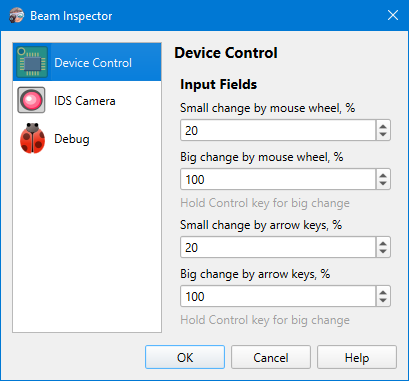
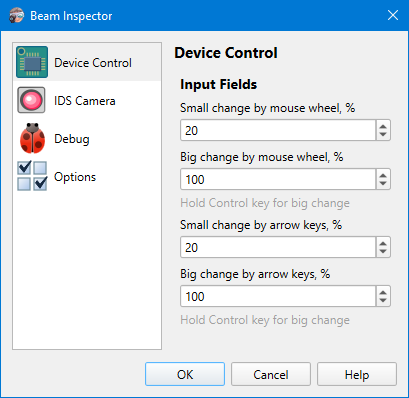
auto check for updates

diff --git a/src/app/HelpSystem.cpp b/src/app/HelpSystem.cpp
@@ -1,14 +1,29 @@
 #include "HelpSystem.h"
 
+#include "app/AppSettings.h"
 
+#include "core/OriVersion.h"
+#include "helpers/OriDialogs.h"
 #include "helpers/OriLayouts.h"
 #include "tools/OriHelpWindow.h"
+#include "tools/OriSettings.h"
 #include "widgets/OriLabels.h"
 
 #include <QApplication>
 #include <QDesktopServices>
+#include <QDateTime>
 #include <QDialog>
+#include <QFormLayout>
+#include <QJsonArray>
+#include <QJsonDocument>
+#include <QJsonObject>
 #include <QLabel>
+#include <QNetworkAccessManager>
+#include <QPushButton>
+#include <QRestAccessManager>
+#include <QRestReply>
+#include <QTextBrowser>
+#include <QTimer>
 #include <QUrl>
 
 using namespace Ori::Layouts;
@@ -57,6 +72,166 @@ void HelpSystem::visitHomePage()
 void HelpSystem::sendBugReport()
 {
     QDesktopServices::openUrl(QUrl(newIssueUrl()));
+}
+
+// https://docs.github.com/ru/rest/releases/releases?apiVersion=2022-11-28
+void HelpSystem::checkForUpdates()
+{
+    getReleases(false);
+}
+
+void HelpSystem::checkForUpdatesAuto()
+{
+    Ori::Settings s;
+    s.beginGroup("Update");
+    auto interval = UpdateCheckInterval(s.value("checkInterval", int(UpdateCheckInterval::Weekly)).toInt());
+    if (interval == UpdateCheckInterval::None)
+        return;
+    bool elapsed = false;
+    auto lastTime = QDateTime::fromString(s.value("lastCheckTime").toString(), Qt::ISODate);
+    if (!lastTime.isValid())
+        elapsed = true;
+    else {
+        auto now = QDateTime::currentDateTime().date();
+        auto prev = lastTime.date();
+        switch (interval) {
+        case UpdateCheckInterval::None:
+            break;
+        case UpdateCheckInterval::Daily:
+            elapsed = now.dayOfYear() != prev.dayOfYear() || now.year() != prev.year();
+            break;
+        case UpdateCheckInterval::Weekly:
+            elapsed = now.weekNumber() != prev.weekNumber() || now.year() != prev.year();
+            break;
+        case UpdateCheckInterval::Monthly:
+            elapsed = now.month() != prev.month() || now.year() != prev.year();
+            break;
+        }
+    }
+    if (elapsed) {
+        auto checkDelay = s.value("checkDelayMs", 300).toInt();
+        if (checkDelay <= 0)
+            checkDelay = 300;
+        QTimer::singleShot(checkDelay, this, [this]{ getReleases(true); });
+    }
+}
+
+namespace {
+struct Release {
+    Ori::Version ver;
+    QDate date;
+    QString descr;
+};
+}
+
+void HelpSystem::getReleases(bool silent)
+{
+    if (_updateChecker)
+    {
+        qDebug() << "Check is already in progress";
+        return;
+    }
+    if (!_updateChecker) {
+        _updateChecker = new QNetworkAccessManager(this);
+        _updateCheckerRest = new QRestAccessManager(_updateChecker, this);
+    }
+    QNetworkRequest request;
+    request.setRawHeader("Accept", "application/vnd.github+json");
+    request.setRawHeader("X-GitHub-Api-Version", "2022-11-28");
+    request.setHeader(QNetworkRequest::UserAgentHeader, "otion-project/beam-inspector-app");
+    request.setUrl(QUrl("https://api.github.com/repos/orion-project/beam-inspector/releases"));
+    _updateCheckerRest->get(request, this, [this, silent](QRestReply &reply){
+        if (!reply.isSuccess()) {
+            if (silent)
+                qWarning() << "HelpSystem::getReleases" << reply.errorString();
+            else
+                Ori::Dlg::error(reply.errorString());
+            finishUpdateCheck();
+            return;
+        }
+        QJsonParseError err;
+        auto doc = reply.readJson(&err);
+        if (!doc) {
+            if (silent)
+                qWarning() << "HelpSystem::getReleases" << err.errorString();
+            else
+                Ori::Dlg::error(err.errorString());
+            finishUpdateCheck();
+            return;
+        }
+        if (!doc->isArray()) {
+            if (silent)
+                qWarning() << "HelpSystem::getReleases" << "Unexpected data format, json array expected";
+            else
+                Ori::Dlg::error(tr("Server returned data in an unexpected format"));
+            finishUpdateCheck();
+            return;
+        }
+        auto arr = doc->array();
+        QList<Release> releases;
+        Ori::Version currentVersion(APP_VER_MAJOR, APP_VER_MINOR, APP_VER_PATCH);
+        for (auto it = arr.constBegin(); it != arr.constEnd(); it++) {
+            auto obj = it->toObject();
+            Ori::Version version(obj["name"].toString());
+            if (version > currentVersion)
+                releases << Release {
+                    .ver = version,
+                    .date = QDate::fromString(obj["published_at"].toString(), Qt::ISODate),
+                    .descr = obj["body"].toString(),
+                };
+        }
+        if (releases.empty()) {
+            Ori::Dlg::info(tr("You are using the most recent version"));
+            finishUpdateCheck();
+            return;
+        }
+        std::sort(releases.begin(), releases.end(), [](Release& a, Release& b){ return a.ver > b.ver; });
+
+        auto label = new QLabel(tr("A new version is available"));
+        label->setAlignment(Qt::AlignHCenter);
+
+        auto layout = new QFormLayout;
+        layout->addRow(tr("Current version:"), new QLabel("<b>" + currentVersion.str(3) + "</b>"));
+        layout->addRow(tr("New version:"), new QLabel("<b>" + releases.first().ver.str(3) + "</b>"));
+
+        QString report;
+        QTextStream stream(&report);
+        for (auto r = releases.constBegin(); r != releases.constEnd(); r++)
+            stream << "**" << r->ver.str(3) << "** (" << QLocale::system().toString(r->date, QLocale::ShortFormat) << ")\n\n" << r->descr << "\n\n";
+
+        auto button = new QPushButton("      " + tr("Open download page") + "      ");
+        connect(button, &QPushButton::clicked, this, []{
+            QDesktopServices::openUrl(QUrl("https://github.com/orion-project/beam-inspector/releases"));
+        });
+
+        auto browser = new QTextBrowser;
+        browser->setMarkdown(report);
+        auto w = new QDialog;
+        w->setAttribute(Qt::WA_DeleteOnClose);
+        LayoutV({
+            label,
+            layout,
+            new QLabel(tr("Changelog:")),
+            browser,
+            LayoutH({Stretch(), button, Stretch()}),
+        }).useFor(w);
+        w->resize(450, 400);
+        w->exec();
+
+        finishUpdateCheck();
+    });
+}
+
+void HelpSystem::finishUpdateCheck()
+{
+    Ori::Settings s;
+    s.beginGroup("Update");
+    s.setValue("lastCheckTime", QDateTime::currentDateTime().toString(Qt::ISODate));
+
+    _updateCheckerRest->deleteLater();
+    _updateChecker->deleteLater();
+    _updateCheckerRest = nullptr;
+    _updateChecker = nullptr;
 }
 
 void HelpSystem::showAbout()

diff --git a/src/app/AppSettings.cpp b/src/app/AppSettings.cpp
@@ -71,6 +71,9 @@ void AppSettings::load()
 
     s.beginGroup("Plot");
     LOAD(colorMap, String, "CET-L08");
+
+    s.beginGroup("Update");
+    updateCheckInterval = UpdateCheckInterval(s.value("checkInterval", int(UpdateCheckInterval::Weekly)).toInt());
 }
 
 void AppSettings::save()
@@ -92,6 +95,9 @@ void AppSettings::save()
 
     s.beginGroup(GROUP_PLOT);
     SAVE(colorMap);
+
+    s.beginGroup("Update");
+    s.setValue("checkInterval", int(updateCheckInterval));
 }
 
 bool AppSettings::edit()
@@ -107,6 +113,8 @@ bool AppSettings::edit()
             .withHelpTopic("app_settings_ids"),
     #endif
         ConfigPage(cfgDbg, tr("Debug"), ":/toolbar/bug"),
+        ConfigPage(cfgOpts, tr("Options"), ":/toolbar/options")
+            .withHelpTopic("app_settings_opts"),
     };
     opts.onHelpRequested = [](const QString &topic){ HelpSystem::topic(topic); };
     opts.items = {
@@ -126,6 +134,11 @@ bool AppSettings::edit()
         new ConfigItemDir(cfgIds, tr("Peak comfortC directory (x64)"), &idsSdkDir),
     #endif
         new ConfigItemBool(cfgDbg, tr("Show log window (restart required)"), &useConsole),
+        (new ConfigItemDropDown(cfgOpts, tr("Automatically check for updates"), (int*)&updateCheckInterval))
+            ->withOption(int(UpdateCheckInterval::None), tr("None"))
+            ->withOption(int(UpdateCheckInterval::Daily), tr("Daily"))
+            ->withOption(int(UpdateCheckInterval::Weekly), tr("Weekly"))
+            ->withOption(int(UpdateCheckInterval::Monthly), tr("Monthly")),
     };
     if (ConfigDlg::edit(opts))
     {

diff --git a/src/windows/PlotWindow.cpp b/src/windows/PlotWindow.cpp
@@ -172,6 +172,8 @@ PlotWindow::PlotWindow(QWidget *parent) : QMainWindow(parent)
 
         if (!AppSettings::instance().isDevMode)
             openImage({});
+
+        HelpSystem::instance()->checkForUpdatesAuto();
     });
 }
 
@@ -314,6 +316,7 @@ void PlotWindow::createMenuBar()
     m->addAction(QIcon(":/ori_images/help"), tr("Help"), QKeySequence::HelpContents, help, &HelpSystem::showContent);
     m->addAction(QIcon(":/toolbar/home"), tr("Visit Homepage"), help, &HelpSystem::visitHomePage);
     m->addAction(QIcon(":/toolbar/bug"), tr("Send Bug Report"), help, &HelpSystem::sendBugReport);
+    m->addAction(tr("Check For Updates"), help, &HelpSystem::checkForUpdates);
     m->addSeparator();
     m->addAction(tr("About..."), help, &HelpSystem::showAbout);
 #undef M_

diff --git a/src/app/HelpSystem.h b/src/app/HelpSystem.h
@@ -5,7 +5,7 @@
 
 QT_BEGIN_NAMESPACE
 class QNetworkAccessManager;
-class QNetworkReply;
+class QRestAccessManager;
 QT_END_NAMESPACE
 
 class HelpSystem : public QObject
@@ -24,15 +24,18 @@ public slots:
     void showTopic(const QString& topic);
     void visitHomePage();
     void sendBugReport();
+    void checkForUpdates();
+    void checkForUpdatesAuto();
     void showAbout();
 
 private:
     HelpSystem();
 
     QNetworkAccessManager* _updateChecker = nullptr;
-    QNetworkReply* _updateReply = nullptr;
+    QRestAccessManager* _updateCheckerRest = nullptr;
 
-    void versionReceived(QByteArray versionData) const;
+    void getReleases(bool silent);
+    void finishUpdateCheck();
 };
 
 #endif // HELP_SYSTEM_H

diff --git a/src/app/AppSettings.h b/src/app/AppSettings.h
@@ -5,6 +5,14 @@
 
 #include <QObject>
 
+enum class UpdateCheckInterval
+{
+    None,
+    Daily,
+    Weekly,
+    Monthly,
+};
+
 class IAppSettingsListener
 {
 public:
@@ -32,6 +40,7 @@ public:
     QString colorMap;
     bool useConsole = false;
     bool isDevMode = false;
+    UpdateCheckInterval updateCheckInterval = UpdateCheckInterval::Weekly;
 
     enum ConfigPages {
         cfgDev,
@@ -39,6 +48,7 @@ public:
     #ifdef WITH_IDS
         cfgIds,
     #endif
+        cfgOpts,
     };
 
     void load();

diff --git a/bin/help/app_settings_opts.md b/bin/help/app_settings_opts.md
@@ -1,0 +1,22 @@
+# App Preferences
+
+## Options
+
+```
+► File ► Preferences ► Options
+```
+
+Different options controlling the application behavior.
+
+![Screenshot](./img/app_settings_opts.png)
+
+### Automatically check for updates
+
+The application can check if there is a new version available on GitHub. The check is performed on application start and happens once in the selected period.
+
+## See also
+
+- [App Preferences: Device Control](./app_settings_hard.md)
+- [App Preferences: IDS Camera](./app_settings_ids.md)
+
+&nbsp;

diff --git a/bin/help/app_settings_ids.md b/bin/help/app_settings_ids.md
@@ -16,6 +16,8 @@ Restart the application to apply changes in this window. When the app starts, it
 
 ## See also
 
+- [App Preferences: Device Control](./app_settings_hard.md)
+- [App Preferences: Options](./app_settings_opts.md)
 - [Supported hardware](./hardware.md)
 - [Camera selector](./cam_selector.md)
 

diff --git a/bin/help/app_settings_hard.md b/bin/help/app_settings_hard.md
@@ -22,4 +22,9 @@ There are the [fields](./cam_control.md) affected by these options:
 
 ![Screenshot](./img/cam_control.png)
 
+## See also
+
+- [App Preferences: IDS Camera](./app_settings_ids.md)
+- [App Preferences: Options](./app_settings_opts.md)
+
 &nbsp;

diff --git a/bin/help/index.md b/bin/help/index.md
@@ -27,6 +27,7 @@
 
 - [Device Control](./app_settings_hard.md)
 - [IDS Camera](./app_settings_ids.md)
+- [Options](./app_settings_opts.md)
 
 **Camera Settings**
 
